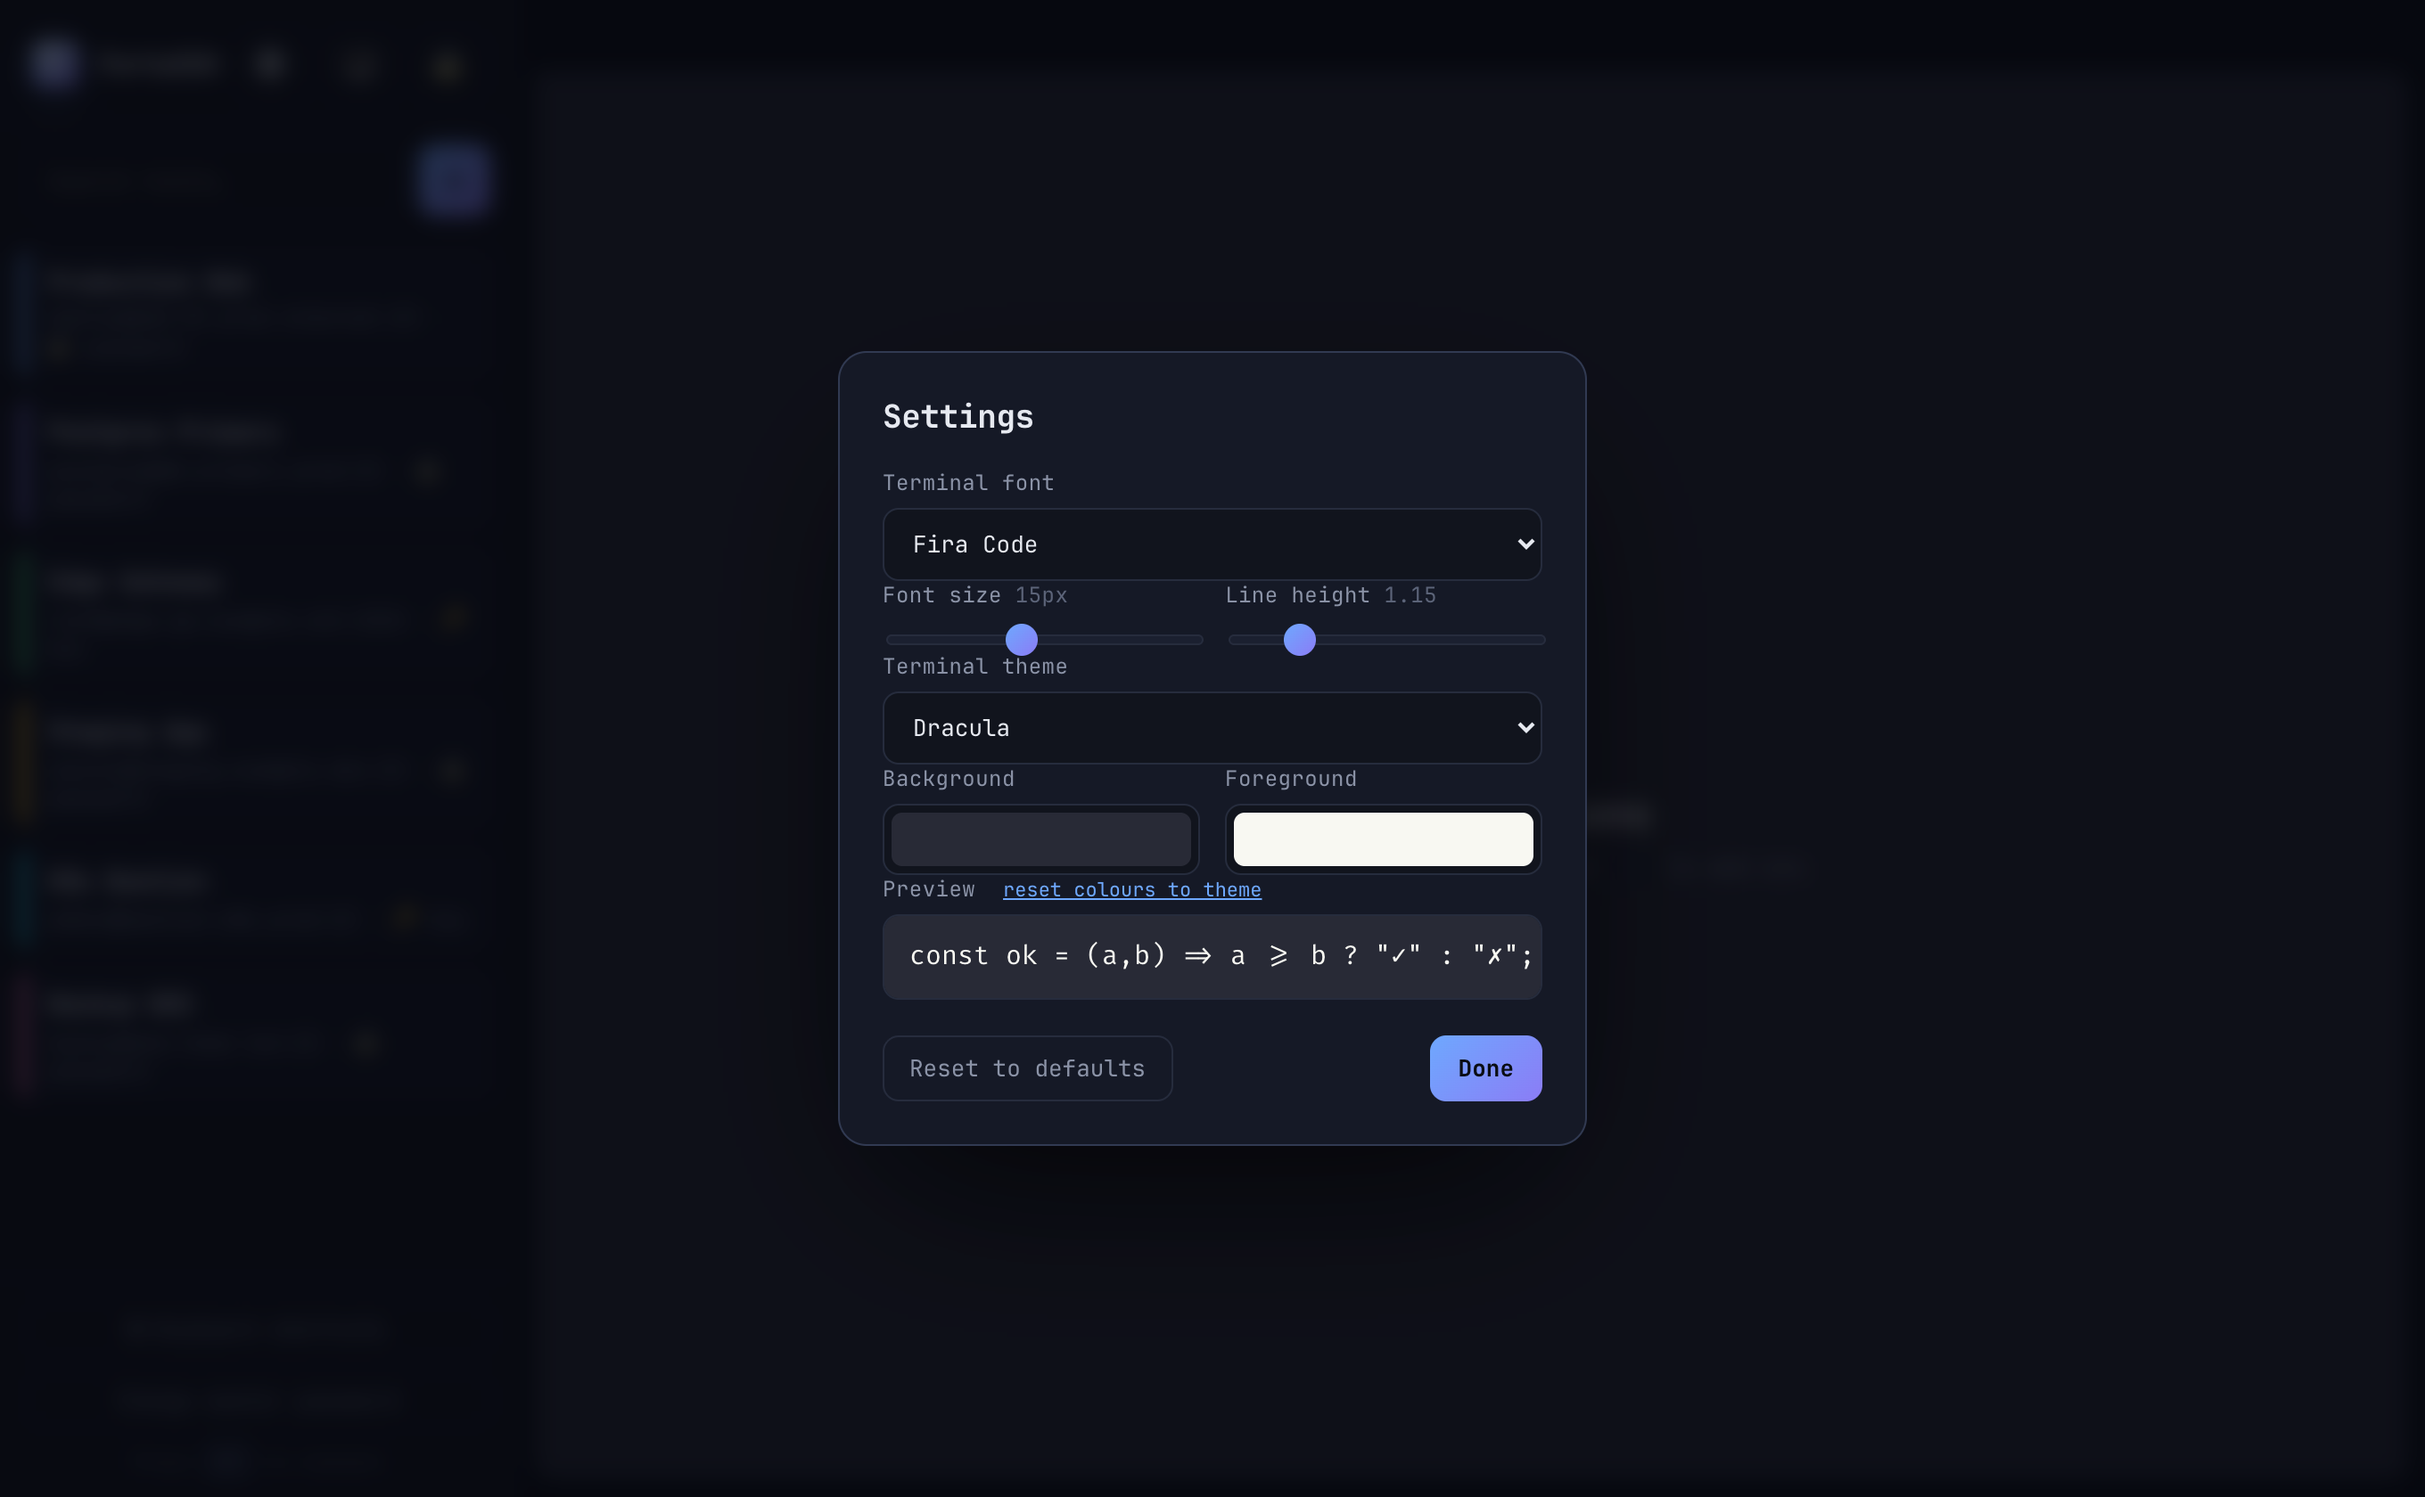
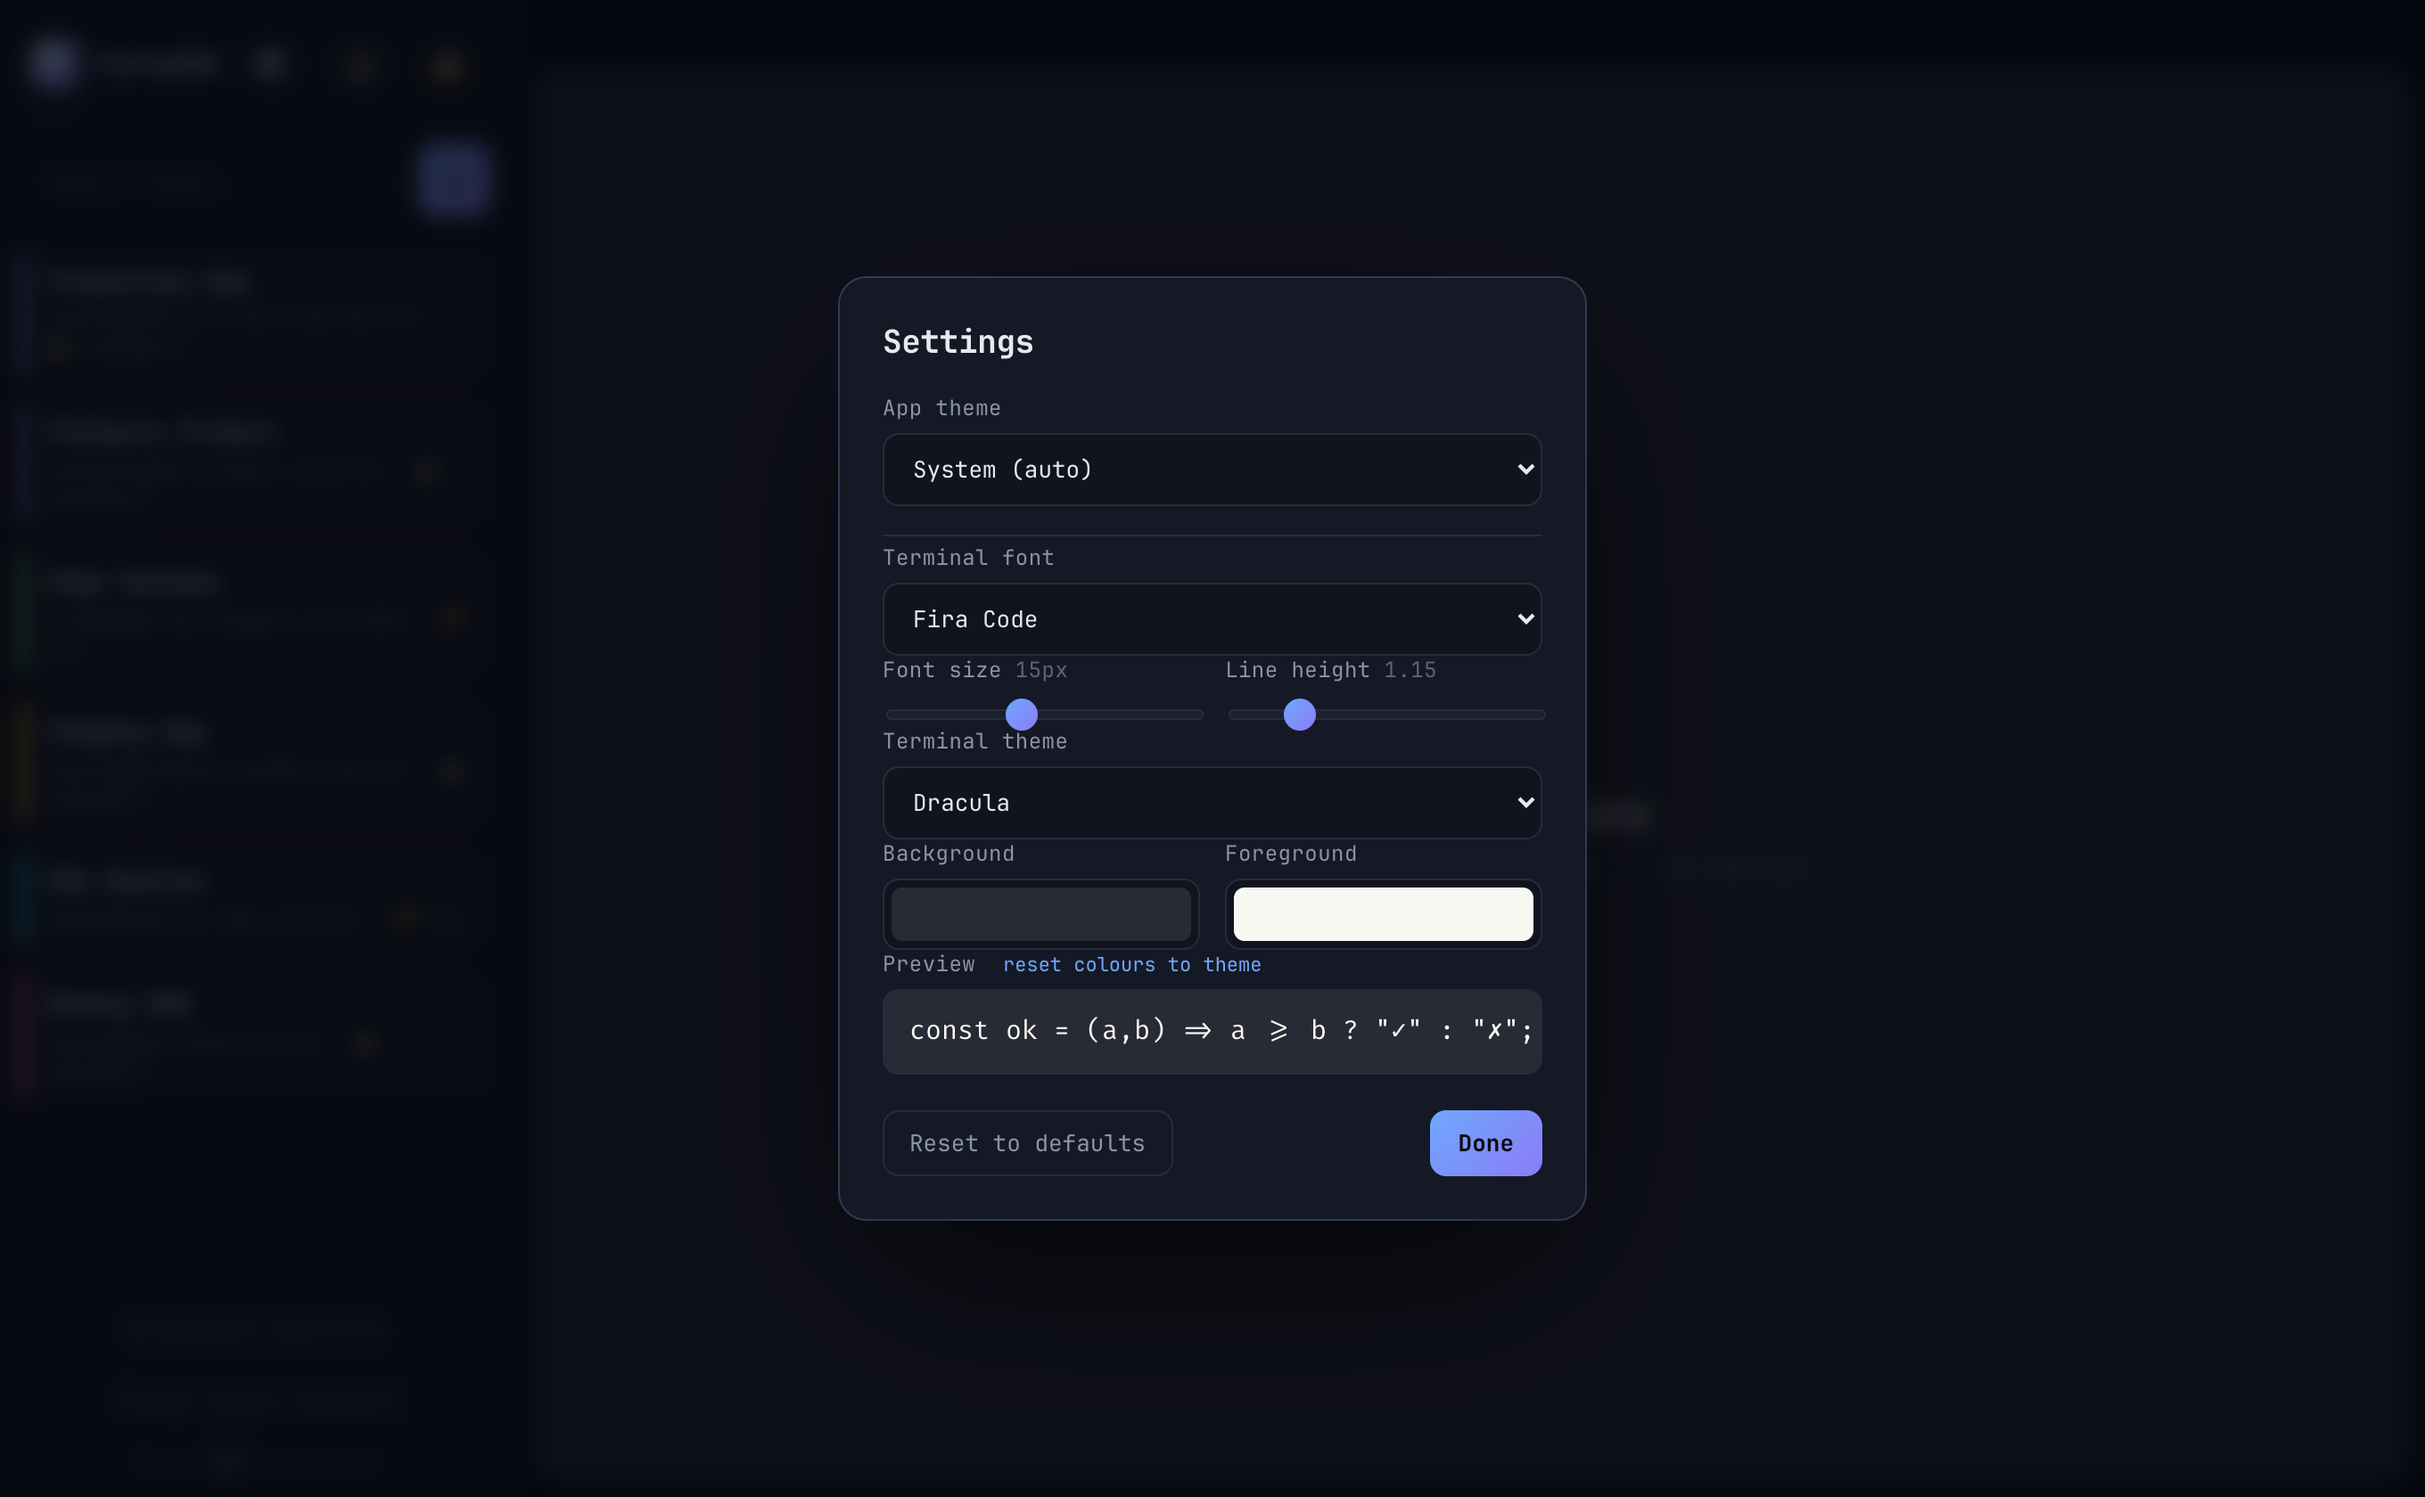
Add whole-app theming from the terminal colour schemes
The Settings modal now has an "App theme" selector: System / Light /
Dark plus all nine terminal schemes (Dracula, Nord, One Dark, Monokai,
Gruvbox, Solarized Dark/Light, Tomorrow Night, GitHub Light). Picking a
scheme derives a full set of UI tokens (backgrounds, panels, borders,
muted text, accents, glow/shadow) from its palette and applies them as
inline CSS variables on :root, recolouring the entire interface live.

The quick theme button cycles the built-ins and shows a 🎨 icon when a
scheme is active. "Match app (auto)" terminal theme now follows the
active app scheme too, so the terminal stays cohesive with the chrome.

diff --git a/internal/server/web/app.js b/internal/server/web/app.js
@@ -329,9 +329,14 @@ const TERM_THEME_LIST = [
 ];
 
 // termBaseTheme returns the palette for the current selection (before overrides).
+// "auto" follows the app theme — including a full scheme when one is active —
+// so picking e.g. Dracula for the whole app themes the terminal to match too.
 function termBaseTheme() {
   const id = prefs.termTheme || "auto";
-  if (id === "auto") return XTERM_THEMES[effectiveTheme()] || XTERM_THEMES.dark;
+  if (id === "auto") {
+    if (isSchemeTheme(prefs.theme)) return TERM_PRESETS[prefs.theme];
+    return XTERM_THEMES[effectiveTheme()] || XTERM_THEMES.dark;
+  }
   return TERM_PRESETS[id] || XTERM_THEMES.dark;
 }
 
@@ -521,33 +526,121 @@ function savePrefs() {
 }
 
 /* ============================================================
-   THEME  (system-aware app light/dark, with manual override)
+   THEME  (whole-app theming)
+   prefs.theme ∈ {"system","light","dark"} (built-ins) OR a scheme id
+   (dracula, nord, …). For a scheme we derive a full set of UI tokens
+   from its palette and apply them as inline CSS variables on :root.
    ============================================================ */
 const systemLight = window.matchMedia("(prefers-color-scheme: light)");
+
+// --- small colour helpers ---
+function hexToRgb(h) {
+  h = String(h).replace("#", "");
+  if (h.length === 3) h = h.split("").map((c) => c + c).join("");
+  const n = parseInt(h, 16);
+  return [(n >> 16) & 255, (n >> 8) & 255, n & 255];
+}
+function rgbToHex(r) {
+  return "#" + r.map((x) => Math.max(0, Math.min(255, Math.round(x))).toString(16).padStart(2, "0")).join("");
+}
+function mixHex(a, b, t) {
+  const x = hexToRgb(a), y = hexToRgb(b);
+  return rgbToHex(x.map((v, i) => v + (y[i] - v) * t));
+}
+function relLum(hex) {
+  const [r, g, b] = hexToRgb(hex).map((v) => v / 255);
+  return 0.2126 * r + 0.7152 * g + 0.0722 * b;
+}
+function rgba(hex, a) { const [r, g, b] = hexToRgb(hex); return `rgba(${r},${g},${b},${a})`; }
+
+// App theme dropdown: built-ins first, then every terminal scheme reused.
+const APP_THEME_LIST = [
+  { id: "system", label: "System (auto)" },
+  { id: "light",  label: "Light" },
+  { id: "dark",   label: "Dark" },
+].concat(TERM_THEME_LIST.filter((t) => t.id !== "auto"));
+
+// The UI variables an app scheme controls (so we can cleanly clear them).
+const APP_VAR_KEYS = [
+  "--bg", "--bg-2", "--panel", "--panel-2", "--border", "--border-2",
+  "--text", "--muted", "--faint", "--accent", "--accent-2", "--good", "--danger",
+  "--glow", "--shadow-lg",
+];
+
+// deriveAppTheme turns a terminal palette into a full set of UI tokens.
+function deriveAppTheme(s) {
+  const bg = s.background, fg = s.foreground;
+  const dark = relLum(bg) < 0.4;
+  const accent = s.blue || s.brightBlue;
+  const accent2 = s.magenta || s.brightMagenta || accent;
+  const t = { "--text": fg, "--accent": accent, "--accent-2": accent2, "--good": s.green, "--danger": s.red };
+  t["--muted"] = mixHex(bg, fg, 0.58);
+  t["--faint"] = mixHex(bg, fg, 0.40);
+  if (dark) {
+    t["--bg"] = bg;
+    t["--bg-2"] = mixHex(bg, "#ffffff", 0.04);
+    t["--panel"] = mixHex(bg, "#ffffff", 0.06);
+    t["--panel-2"] = mixHex(bg, "#ffffff", 0.10);
+    t["--border"] = mixHex(bg, "#ffffff", 0.15);
+    t["--border-2"] = mixHex(bg, "#ffffff", 0.25);
+    t["--shadow-lg"] = "0 30px 80px -30px rgba(0,0,0,.8)";
+  } else {
+    t["--bg"] = mixHex(bg, "#000000", 0.05);
+    t["--bg-2"] = "#ffffff";
+    t["--panel"] = mixHex(bg, "#ffffff", 0.55);
+    t["--panel-2"] = mixHex(bg, "#000000", 0.04);
+    t["--border"] = mixHex(bg, "#000000", 0.11);
+    t["--border-2"] = mixHex(bg, "#000000", 0.20);
+    t["--shadow-lg"] = "0 30px 70px -30px rgba(30,41,80,.35)";
+  }
+  t["--glow"] = `0 0 0 1px ${rgba(accent, 0.35)}, 0 8px 30px -8px ${rgba(accent, 0.5)}`;
+  return t;
+}
+
+const BUILTIN_THEMES = ["system", "light", "dark"];
+function isSchemeTheme(p) { return !BUILTIN_THEMES.includes(p) && !!TERM_PRESETS[p]; }
 
 function themePref() { return prefs.theme || "system"; }
 function effectiveTheme() {
   const p = themePref();
   if (p === "light" || p === "dark") return p;
+  if (isSchemeTheme(p)) return relLum(TERM_PRESETS[p].background) < 0.4 ? "dark" : "light";
   return systemLight.matches ? "light" : "dark";
 }
 function applyTheme() {
   const p = themePref();
   const root = document.documentElement;
-  if (p === "system") root.removeAttribute("data-theme");
-  else root.setAttribute("data-theme", p);
 
-  const icon = p === "light" ? "☀" : p === "dark" ? "🌙" : "🖥";
-  const title = "Theme: " + (p === "system" ? "follow system" : p) + " (click to change)";
+  // Clear any previously-applied scheme variables first.
+  for (const k of APP_VAR_KEYS) root.style.removeProperty(k);
+
+  if (isSchemeTheme(p)) {
+    const dark = relLum(TERM_PRESETS[p].background) < 0.4;
+    root.setAttribute("data-theme", dark ? "dark" : "light");
+    const vars = deriveAppTheme(TERM_PRESETS[p]);
+    for (const k in vars) root.style.setProperty(k, vars[k]);
+  } else if (p === "system") {
+    root.removeAttribute("data-theme");
+  } else {
+    root.setAttribute("data-theme", p);
+  }
+
+  updateThemeButton(p);
+  applyTerminal(); // "auto" terminal palette depends on the app theme
+}
+function updateThemeButton(p) {
+  const label = APP_THEME_LIST.find((t) => t.id === p);
+  const icon = p === "light" ? "☀" : p === "dark" ? "🌙" : p === "system" ? "🖥" : "🎨";
+  const title = "Theme: " + (label ? label.label : p) + " (click to cycle built-ins)";
   for (const id of ["btn-theme", "btn-theme-lock"]) {
     const el = $(id);
     if (el) { el.textContent = icon; el.title = title; }
   }
-  applyTerminal(); // "auto" terminal palette depends on the app theme
 }
 function cycleTheme() {
-  const order = ["system", "light", "dark"];
-  prefs.theme = order[(order.indexOf(themePref()) + 1) % order.length];
+  // The quick button cycles the built-ins; from a scheme it returns to System.
+  const i = BUILTIN_THEMES.indexOf(themePref());
+  prefs.theme = BUILTIN_THEMES[(i + 1) % BUILTIN_THEMES.length];
   savePrefs();
   applyTheme();
 }
@@ -590,6 +683,15 @@ function applyFont() {
 }
 
 function openSettings() {
+  // App theme dropdown
+  const asel = $("set-apptheme");
+  asel.innerHTML = "";
+  for (const t of APP_THEME_LIST) {
+    const o = document.createElement("option");
+    o.value = t.id; o.textContent = t.label;
+    if (t.id === prefs.theme) o.selected = true;
+    asel.appendChild(o);
+  }
   // Font dropdown
   const fsel = $("set-font");
   fsel.innerHTML = "";
@@ -638,6 +740,10 @@ function initSettings() {
   $("btn-settings").addEventListener("click", openSettings);
   $("set-close").addEventListener("click", () => $("settings").classList.add("hidden"));
 
+  $("set-apptheme").addEventListener("input", () => {
+    prefs.theme = $("set-apptheme").value;
+    savePrefs(); applyTheme(); syncColorPickers(); refreshSettingsPreview();
+  });
   $("set-font").addEventListener("input", () => { prefs.font = $("set-font").value; savePrefs(); refreshSettingsPreview(); applyFont(); });
   $("set-size").addEventListener("input", () => { prefs.fontSize = parseFloat($("set-size").value); savePrefs(); refreshSettingsPreview(); applyFont(); });
   $("set-lh").addEventListener("input", () => { prefs.lineHeight = parseFloat($("set-lh").value); savePrefs(); refreshSettingsPreview(); applyFont(); });

diff --git a/internal/server/web/style.css b/internal/server/web/style.css
@@ -296,6 +296,7 @@ input[type="range"]::-webkit-slider-thumb {
 }
 input[type="range"]:focus { box-shadow: 0 0 0 3px rgba(110,168,254,.15); }
 
+.section-rule { height: 1px; background: var(--border); margin: 16px 0 4px; }
 .color-input { height: 40px; padding: 4px; cursor: pointer; }
 .color-input::-webkit-color-swatch-wrapper { padding: 0; }
 .color-input::-webkit-color-swatch { border: none; border-radius: 6px; }

diff --git a/internal/server/web/index.html b/internal/server/web/index.html
@@ -172,6 +172,11 @@
     <div class="modal narrow">
       <h2>Settings</h2>
       <div class="field">
+        <label>App theme</label>
+        <select id="set-apptheme"></select>
+      </div>
+      <div class="section-rule"></div>
+      <div class="field">
         <label>Terminal font</label>
         <select id="set-font"></select>
       </div>

diff --git a/README.md b/README.md
@@ -53,6 +53,9 @@ Plug in the stick, run it, unlock with your master password, and you're home.
 - 🌈 **Terminal colour schemes** — nine popular presets (Dracula, Nord, One Dark,
   Monokai, Gruvbox, Solarized Dark/Light, Tomorrow Night, GitHub Light) plus
   custom **background / foreground** colour pickers.
+- 🖌 **Whole-app theming** — apply any of those schemes (or System / Light / Dark)
+  to the *entire* interface, not just the terminal. The UI palette is derived
+  live from the scheme, and the terminal follows along automatically.
 - 💾 **Settings that persist** — all preferences are saved in a JSON file *next to
   the vault*, so they survive restarts and travel with the stick (not tied to the
   browser or the random port).
@@ -72,6 +75,10 @@ Plug in the stick, run it, unlock with your master password, and you're home.
 | <img src="assets/03-palette.png" width="420"> | <img src="assets/04-settings.png" width="420"> |
 | **Shortcuts overlay** — platform-aware | **Light mode** — follows your system |
 | <img src="assets/05-shortcuts.png" width="420"> | <img src="assets/06-app-light.png" width="420"> |
+
+**Whole-app theming** — the entire UI recolours to any scheme (here: Dracula):
+
+<div align="center"><img src="assets/07-app-theme.png" alt="PortaSSH in Dracula theme" width="850"></div>
 
 ## 📦 Getting started
 
